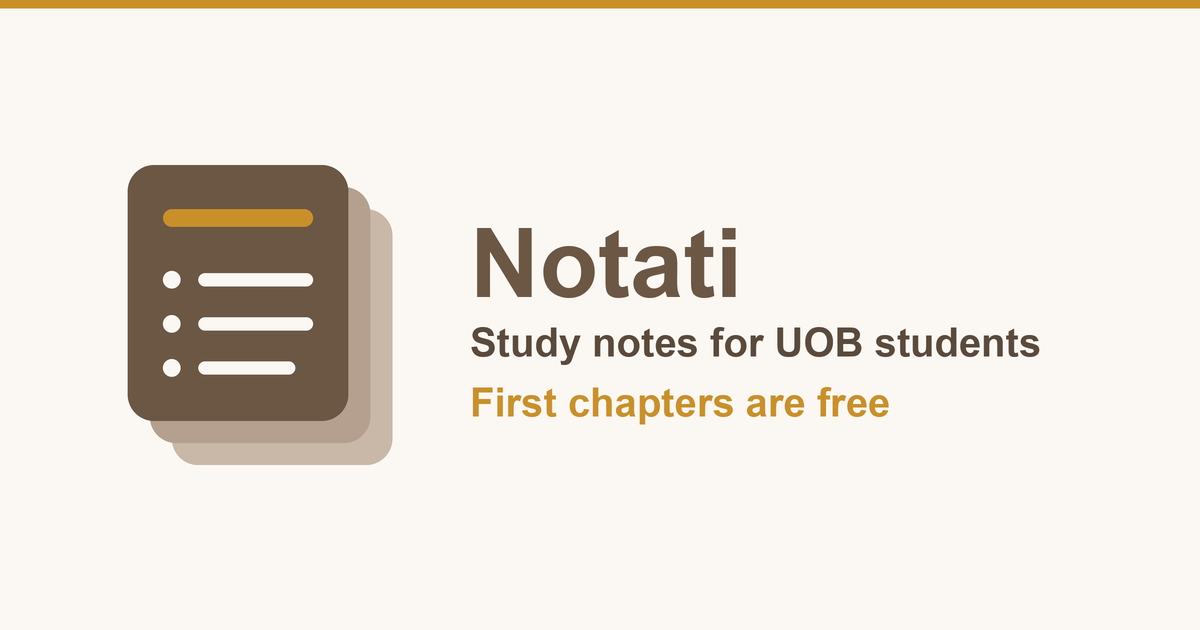
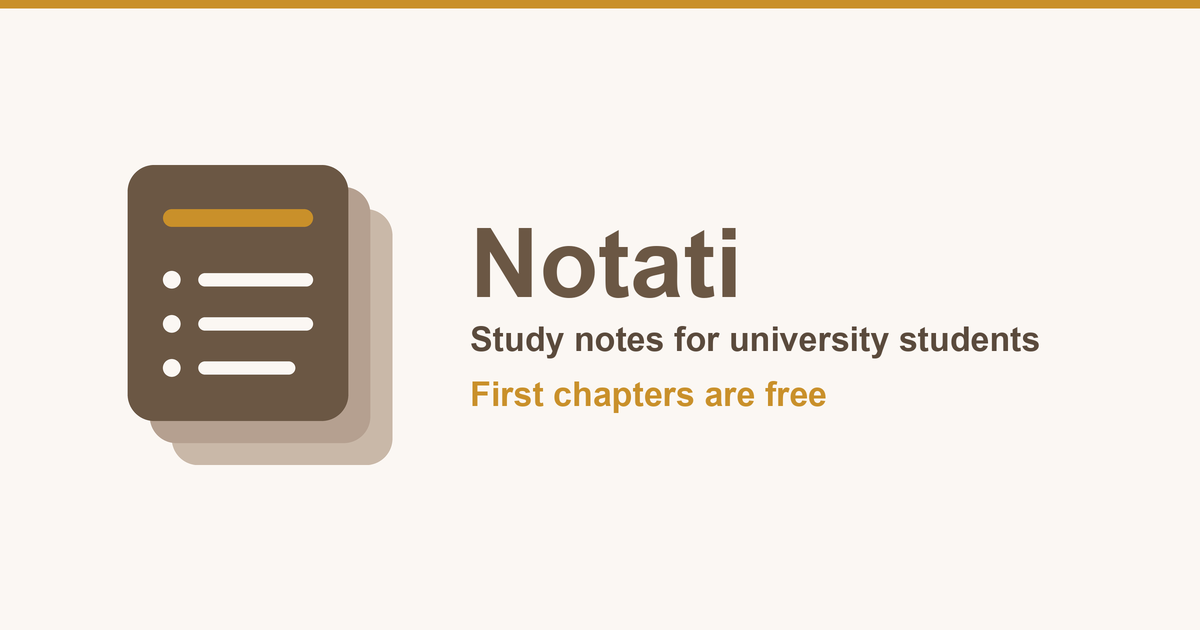
Broaden the site title and description beyond UOB
Title is now "Notati - Study Notes for University Students in Bahrain";
the description and the share card follow suit ("university courses in
Bahrain" / "Study notes for university students") so the search result
and link preview stay consistent.

Changed region(s): [[0.37, 0.5127, 0.8633, 0.573], [0.37, 0.6032, 0.74, 0.6635]]

diff --git a/index.html b/index.html
@@ -3,8 +3,8 @@
 <head>
   <meta charset="UTF-8" />
   <meta name="viewport" content="width=device-width, initial-scale=1.0" />
-  <title>Notati - Study Notes for UOB Students in Bahrain</title>
-  <meta name="description" content="Clear, well-made lecture notes and chapter summaries for University of Bahrain courses. The first chapter of every course is free - browse by college and course." />
+  <title>Notati - Study Notes for University Students in Bahrain</title>
+  <meta name="description" content="Clear, well-made lecture notes and chapter summaries for university courses in Bahrain. The first chapter of every course is free - browse by college and course." />
   <link rel="canonical" href="https://notati.app/" />
   <meta name="theme-color" content="#6B5744" />
 
@@ -20,15 +20,15 @@
   <!-- Link preview when shared on WhatsApp / Instagram / LinkedIn -->
   <meta property="og:type" content="website" />
   <meta property="og:site_name" content="Notati" />
-  <meta property="og:title" content="Notati - Study Notes for UOB Students in Bahrain" />
-  <meta property="og:description" content="Clear, well-made lecture notes and chapter summaries for University of Bahrain courses. The first chapter of every course is free." />
+  <meta property="og:title" content="Notati - Study Notes for University Students in Bahrain" />
+  <meta property="og:description" content="Clear, well-made lecture notes and chapter summaries for university courses in Bahrain. The first chapter of every course is free." />
   <meta property="og:url" content="https://notati.app/" />
   <meta property="og:image" content="https://notati.app/og-image.png" />
   <meta property="og:image:width" content="1200" />
   <meta property="og:image:height" content="630" />
   <meta name="twitter:card" content="summary_large_image" />
-  <meta name="twitter:title" content="Notati - Study Notes for UOB Students in Bahrain" />
-  <meta name="twitter:description" content="Clear, well-made lecture notes and chapter summaries for University of Bahrain courses. The first chapter of every course is free." />
+  <meta name="twitter:title" content="Notati - Study Notes for University Students in Bahrain" />
+  <meta name="twitter:description" content="Clear, well-made lecture notes and chapter summaries for university courses in Bahrain. The first chapter of every course is free." />
   <meta name="twitter:image" content="https://notati.app/og-image.png" />
 
   <!-- Apply saved theme before CSS paints to prevent flash -->